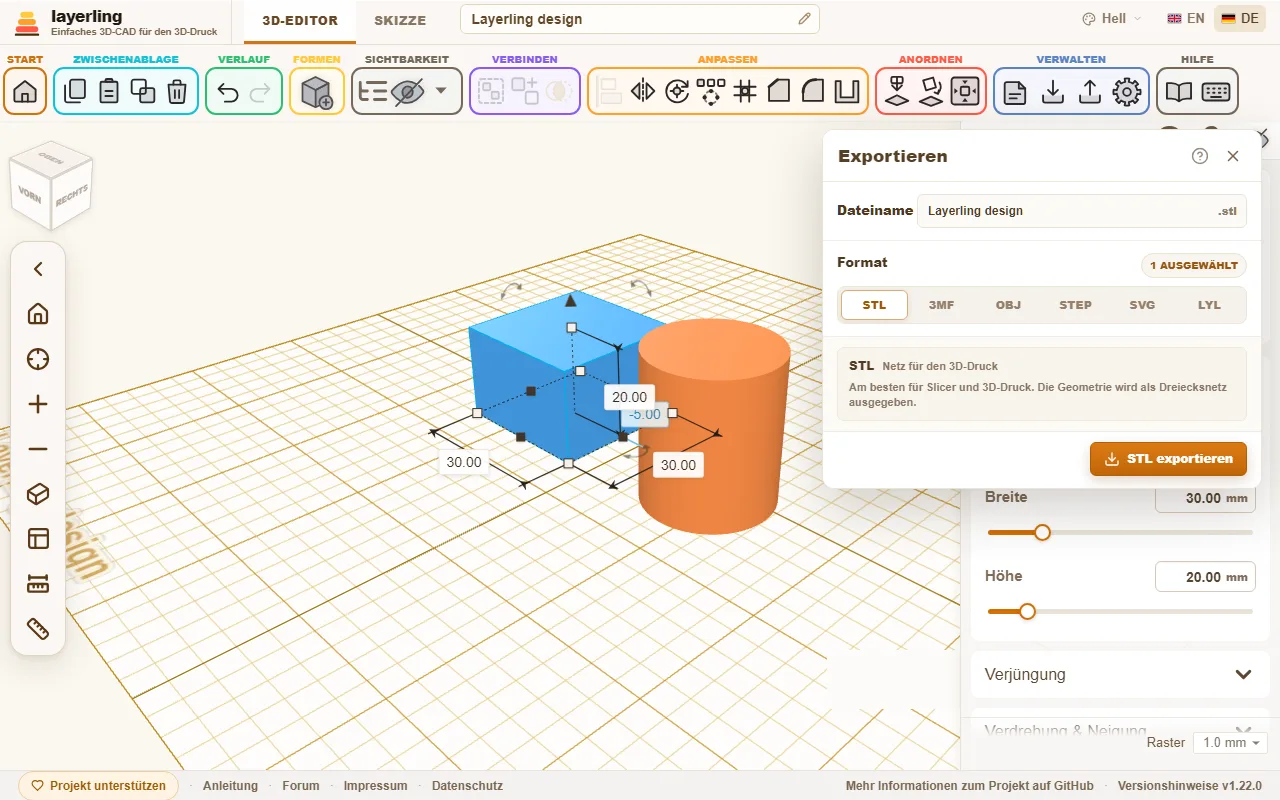
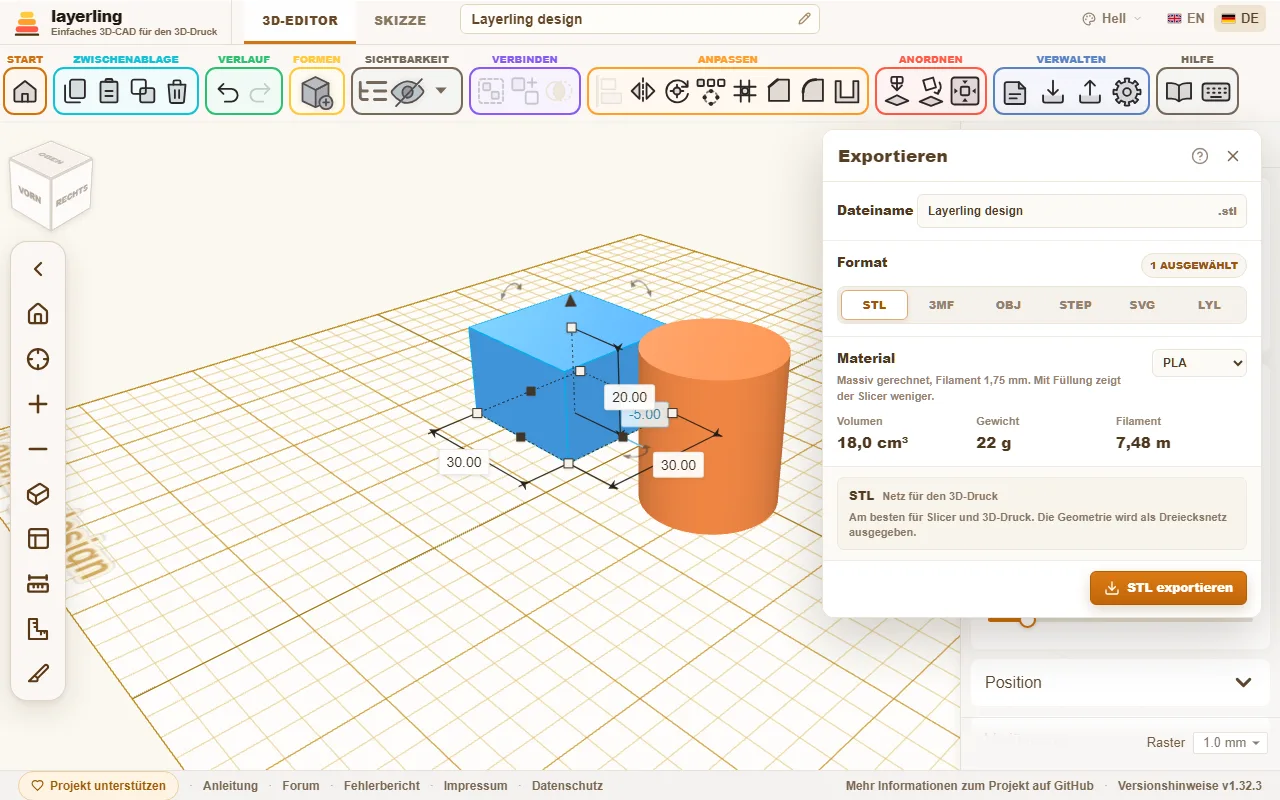
Release 1.33.0: overhangs, filament estimate, measuring on the cut

Changed region(s): [[0.625, 0.4375, 1.0, 0.875], [0.2812, 0.9688, 0.4688, 1.0], [0.0, 0.7812, 0.0625, 0.875]]

diff --git a/apps/web/src/lib/messages.de.ts b/apps/web/src/lib/messages.de.ts
@@ -354,7 +354,7 @@ export const MESSAGES_DE: Record<MessageKey, string> = {
   "guide.view.cube": "Der Würfel in der Ecke springt auf gerade Ansichten, Ziehen an ihm dreht die Ansicht, das Haus holt die ganze Szene zurück ins Bild.",
   "guide.view.panels": "Objektliste, Einstellungen und die Werkzeugfenster lassen sich an ihrer Titelleiste wegziehen, wenn sie etwas verdecken; ein Doppelklick dockt sie wieder an.",
   "guide.view.projection": "Der Würfelknopf neben den Zoomtasten wechselt zwischen normaler und flacher, orthografischer Ansicht.",
-  "guide.view.section": "Der Schnitt-Knopf (das Schnittwerkzeug) ganz unten in der linken Leiste schneidet die Ansicht entlang einer Ebene auf, um Wände und Hohlräume zu sehen. Es ist nur eine Ansicht: Entwurf und Export bleiben ganz. „Schnitt als SVG“ speichert die Umrisse auf der Ebene im Maßstab 1:1, etwa für einen Laser. Das Fenster lässt sich an seiner Titelleiste verschieben.",
+  "guide.view.section": "Der Schnitt-Knopf (das Schnittwerkzeug) ganz unten in der linken Leiste schneidet die Ansicht entlang einer Ebene auf, um Wände und Hohlräume zu sehen. Es ist nur eine Ansicht: Entwurf und Export bleiben ganz. „Schnitt als SVG“ speichert die Umrisse auf der Ebene im Maßstab 1:1, etwa für einen Laser. „Messen“ misst direkt auf dem Schnitt: zwei Klicks auf den blauen Umriss, und ein Klick irgendwo an der Gegenwand ergibt die Wandstärke im rechten Winkel. Das Fenster lässt sich an seiner Titelleiste verschieben.",
   "guide.group.workplane": "Arbeitsebene",
   "guide.workplane.place": "Die Taste W oder das Ebenen-Symbol setzt eine temporäre Arbeitsebene auf jede angeklickte Fläche. Neue Formen richten sich daran aus.",
   "guide.workplane.reset": "Ein Klick ins Leere (oder Esc) setzt die Arbeitsebene wieder auf die Grundebene zurück. Shift+W legt sie direkt auf die Auswahl.",
@@ -372,6 +372,7 @@ export const MESSAGES_DE: Record<MessageKey, string> = {
   "guide.select.pivot": "Drehpunkt setzen, dann eine Fläche anklicken: Eine ebene Fläche gibt ihren Mittelpunkt vor, etwa die Achse eines Rohrendes. Die Auswahl dreht sich danach um diesen Punkt statt um ihre Mitte - so bleibt ein gekipptes Rohrende auf seiner Achse. Ein zweiter Klick auf das Werkzeug oder eine neue Auswahl hebt ihn wieder auf.",
   "guide.select.layFlat": "Auf Fläche legen (unter Anordnen), dann eine Fläche der Auswahl anklicken: Der Körper dreht sich so, dass diese Fläche unten auf der Arbeitsebene liegt - praktisch, um ein Teil für den Druck auf seine beste Seite zu legen.",
   "guide.select.pattern": "Muster wiederholt die Auswahl n-mal in einer Reihe oder im Kreis - für Lochraster, Lochkreise und Zahnkränze. Die Kopien erscheinen als Vorschau, erst „Erzeugen\" legt sie an.",
+  "guide.select.overhangs": "Überhänge zeigen (im Menü neben dem Auge) schraffiert jede Fläche rot-weiß, die steiler als 45° überhängt und beim Druck Stützen bräuchte. Den Winkel stellst du in den Einstellungen unter Darstellung ein.",
   "guide.select.notes": "Eine Notiz hält fest, was die Geometrie nicht sagt. Setze sie auf einen Körper, dann wandert sie mit ihm; setze sie daneben, bleibt sie auf der Arbeitsebene. Notizen reisen im Entwurf mit und stehen in keiner Ausfuhr.",
   "guide.group.measure": "Messen",
   "guide.measure.tape": "Das Maßband misst Abstände zwischen Ecken, Kanten und Flächen - Punkt setzen, zum nächsten ziehen, fertig ist die Messung.",
@@ -406,7 +407,7 @@ export const MESSAGES_DE: Record<MessageKey, string> = {
   "guide.group.files": "Sichern und weitergeben",
   "guide.files.autosave": "Entwürfe und Exporte werden zu 100 % lokal in deinem Browser berechnet und gesichert. Kein Konto, keine Daten werden hochgeladen.",
   "guide.files.project": "LYL ist layerlings eigenes Entwurfsformat: der ganze Entwurf samt Verlauf in einer Datei. Ältere .skf-Dateien öffnen weiterhin.",
-  "guide.files.export": "STL, 3MF und OBJ für den Slicer (3MF und OBJ mit Farben), STEP für ein vollwertiges CAD, SVG für flache Umrisse. Ausgeblendete Teile bleiben draußen.",
+  "guide.files.export": "STL, 3MF und OBJ für den Slicer (3MF und OBJ mit Farben), STEP für ein vollwertiges CAD, SVG für flache Umrisse. Ausgeblendete Teile bleiben draußen. Das Feld „Material“ zeigt Volumen, Gewicht und Meter Filament, massiv gerechnet.",
   "guide.files.import": "STL, OBJ, 3MF, STEP und SVG lassen sich importieren und darum herum weiterbauen. Eine farbige OBJ oder 3MF kommt als ein Körper je Farbe; bei einer OBJ die .mtl oder das ZIP aus Tinkercad gleich mit auswählen.",
   "guide.files.bugReport": "„Fehlerbericht“ unten in der Fußzeile speichert den Entwurf als .lyl samt Version, Browser und den letzten Meldungen, zum Anhängen im Forum oder bei GitHub.",
   "guide.files.storeOff": "Auf dem eigenen Server legst du neben der index.html einen Ordner „store\" an - dann lassen sich Entwürfe zusätzlich zum Browser auch auf dem Server ablegen. Dafür muss der Server PHP können.",

diff --git a/apps/web/src/lib/messages.en.ts b/apps/web/src/lib/messages.en.ts
@@ -355,7 +355,7 @@ export const MESSAGES_EN = {
   "guide.view.cube": "The cube in the corner jumps to straight-on views, dragging it turns the view, and the house button fits the whole scene back into the picture.",
   "guide.view.panels": "The object list, the settings and the tool panels can be dragged away by their title bar when they cover something; a double-click docks them again.",
   "guide.view.projection": "The cube button beside the zoom controls switches between the normal view and a flat, orthographic one.",
-  "guide.view.section": "The section button (the cut tool) at the bottom of the left bar cuts the view open along a plane, to see walls and cavities. It is only a view: the design and its exports stay whole. \"Section as SVG\" saves the outlines on the plane at 1:1, for a laser for instance. The panel moves by its title bar.",
+  "guide.view.section": "The section button (the cut tool) at the bottom of the left bar cuts the view open along a plane, to see walls and cavities. It is only a view: the design and its exports stay whole. \"Section as SVG\" saves the outlines on the plane at 1:1, for a laser for instance. \"Measure\" measures right on the cut: two clicks on the blue outline, and a click anywhere on the opposite wall gives the wall thickness square to it. The panel moves by its title bar.",
   "guide.group.workplane": "Workplane",
   "guide.workplane.place": "The W key or the workplane icon places a temporary workplane onto any clicked face. New shapes align with it.",
   "guide.workplane.reset": "Clicking into empty space (or Esc) returns the workplane to the ground. Shift+W places it directly onto the selection.",
@@ -373,6 +373,7 @@ export const MESSAGES_EN = {
   "guide.select.pivot": "Set rotation pivot, then click a face: a flat face gives its centre, such as the axis of a pipe end. The selection then turns around that point instead of its own centre - a tilted pipe end stays on its axis. Clicking the tool again, or selecting something else, removes it.",
   "guide.select.layFlat": "Lay flat on face (under Arrange), then click a face of the selection: the body turns so that face rests on the workplane - handy for putting a part on its best side for printing.",
   "guide.select.pattern": "Pattern repeats the selection n times in a row or around a circle - for hole grids, bolt circles and toothed rings. The copies show as a preview; only \"Create\" adds them.",
+  "guide.select.overhangs": "Show overhangs (in the menu next to the eye) hatches every face red and white that overhangs more steeply than 45° and would need supports in print. Set the angle in the settings under Appearance.",
   "guide.select.notes": "A note holds what the geometry cannot say. Place it on a body and it travels with it; place it beside one and it stays on the workplane. Notes are saved with the design and never reach an export.",
   "guide.group.measure": "Measuring",
   "guide.measure.tape": "The tape measure reads distances between corners, edges and faces - set a point, drag to the next, and the measurement is done.",
@@ -407,7 +408,7 @@ export const MESSAGES_EN = {
   "guide.group.files": "Saving and sharing",
   "guide.files.autosave": "Designs and exports are computed and saved 100% locally in your browser. No account, nothing is uploaded.",
   "guide.files.project": "LYL is layerling's own design format: the whole design including history in one file. Older .skf files still open.",
-  "guide.files.export": "STL, 3MF and OBJ for the slicer (3MF and OBJ with colours), STEP for a full CAD program, SVG for flat outlines. Hidden parts stay out.",
+  "guide.files.export": "STL, 3MF and OBJ for the slicer (3MF and OBJ with colours), STEP for a full CAD program, SVG for flat outlines. Hidden parts stay out. The Material box shows volume, weight and metres of filament, worked out as solid.",
   "guide.files.import": "STL, OBJ, 3MF, STEP and SVG can be imported and built around. A coloured OBJ or 3MF comes in as one body per colour; for an OBJ, select its .mtl or Tinkercad's ZIP along with it.",
   "guide.files.bugReport": "\"Bug report\" in the footer at the bottom saves the design as .lyl with its version, browser and the last messages, to attach in the forum or on GitHub.",
   "guide.files.storeOff": "On your own server, create a folder called \"store\" next to index.html to store designs on the server in addition to the browser. That needs PHP.",

diff --git a/apps/web/src/components/workplane/GuideModal.tsx b/apps/web/src/components/workplane/GuideModal.tsx
@@ -41,7 +41,7 @@ function guideSections(sharedStore: boolean): GuideSection[] {
     {
       title: "guide.group.select",
       chapter: "select",
-      lines: ["guide.select.click", "guide.select.position", "guide.select.group", "guide.select.align", "guide.select.pivot", "guide.select.layFlat", "guide.select.pattern", "guide.select.notes"],
+      lines: ["guide.select.click", "guide.select.position", "guide.select.group", "guide.select.align", "guide.select.pivot", "guide.select.layFlat", "guide.select.overhangs", "guide.select.pattern", "guide.select.notes"],
     },
     {
       title: "guide.group.measure",

diff --git a/apps/web/src/lib/lylProject.ts b/apps/web/src/lib/lylProject.ts
@@ -25,7 +25,7 @@ function knownSchema(schema: unknown) {
 export const LYL_FORMAT_VERSION = 2;
 export const LYL_MINIMUM_READER_VERSION = 2;
 export const LYL_OLDEST_READABLE_FORMAT_VERSION = 1;
-export const LYL_CREATED_WITH_VERSION = "1.32.3";
+export const LYL_CREATED_WITH_VERSION = "1.33.0";
 export const LYL_MEDIA_TYPE = "application/vnd.layerling.project+zip";
 
 export const LYL_LIMITS = {

diff --git a/docs/CHANGELOG.md b/docs/CHANGELOG.md
@@ -4,12 +4,13 @@ layerling started over at 1.0.0 when it was forked from SketchForge-3D 1.0.9.
 Everything from 1.0.9 downwards is SketchForge's history, kept here because the
 code still carries it - so a lower number further down is older, not newer.
 
-## Unreleased
+## 1.33.0
 
-- **Measure on the cut:** The section view has a new **Measure** button. The cut's outline shows in blue, and two clicks on it give the distance and its parts along the plane. Points snap to the outline and its corners, and a second click anywhere on the opposite wall snaps square to the first - so wall thickness, gaps and clearances read off without aiming. `layerling_measure_section` does the same through MCP. Asked for in the forum and #80, where the section view is mostly used to check walls and fits.
+- **Measure on the cut:** The section view has a new **Measure** button. The cut's outline shows in blue, and two clicks on it give the distance and its parts along the plane. Points snap to the outline and its corners, and a second click anywhere on the opposite wall snaps square to the first - so wall thickness, gaps and clearances read off without aiming. `layerling_measure_section` does the same through MCP.
 - **See overhangs before you slice:** "Show overhangs" in the visibility menu hatches every face red and white that points down more steeply than 45° and would need supports; faces lying on the plate stay clear. The angle can be set from 30° to 70° in the settings under Appearance, for printers with better or worse cooling. `layerling_show_overhangs` switches it through MCP and reports the overhanging area of each body.
 - **How much filament?** The export window now shows volume, weight and length of 1.75 mm filament for what you export, with a choice of PLA, PETG, ABS, ASA, TPU or PA. It counts like the file - visible bodies, holes in groups taken off, overlaps once - and is worked out as solid, so the slicer shows less with infill. `layerling_estimate_print` gives the same numbers through MCP.
 - **Section view axes named like everywhere else:** The section view called the height Y and the depth Z, while the position fields and the pattern tool call the height Z. Its buttons now read X (width), Y (depth) and Z (height) too, and a Y cut in the SVG export is seen from the front, a Z cut from above. Through MCP the axes stay as they were. Reported by @plazmabokor (#85).
+- **No sideways scrollbar in the settings:** In a window between about 640 and 1100 pixels wide, the list of sections on the left of the settings was 2 pixels too narrow for its buttons and showed a horizontal scrollbar. It fits now.
 - **More videos:** The video list on the start page, in the quick guide and in the guide now links the layerling playlist by Making Layers, so far an introduction for people coming from Tinkercad and a video on the sketch tools.
 - **Springs wind right-hand, or left-hand if you like:** The spring wound left-hand, like the threads before 1.32.1, while most real compression springs are right-hand. It now winds right-hand, and the new **Winding** setting turns it the other way; the default for new springs can be set in the settings. Springs in saved projects come out right-hand when they are opened. `springHand` sets it through MCP. Pointed out by @plazmabokor (#75).
 
